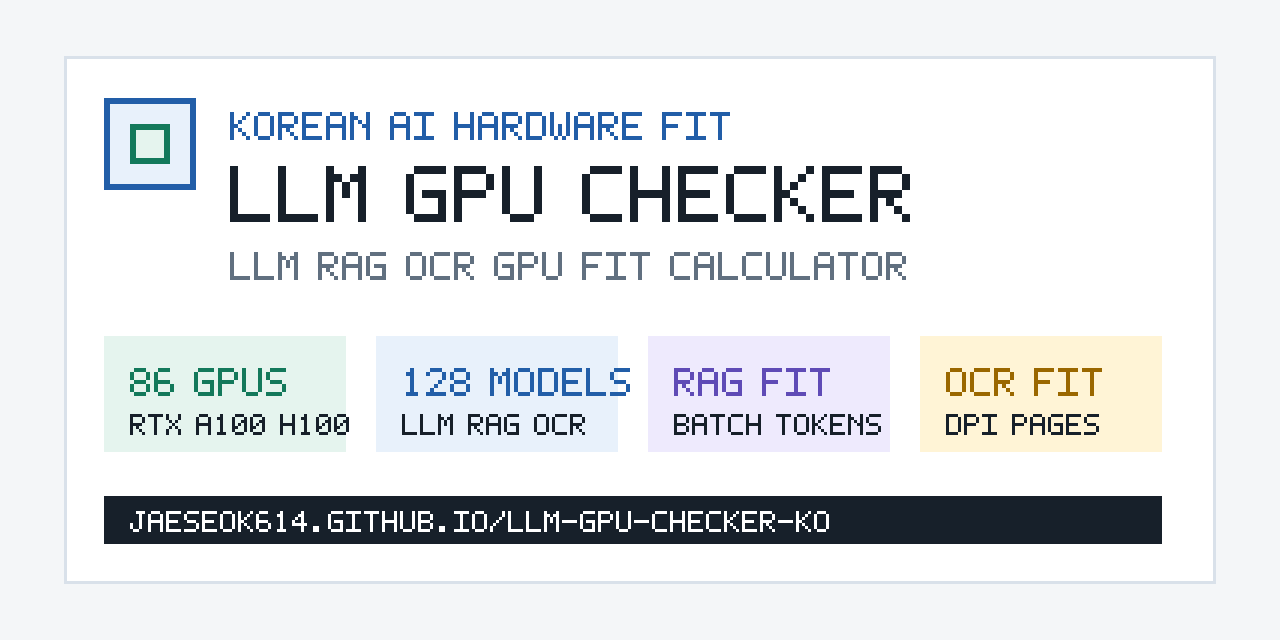
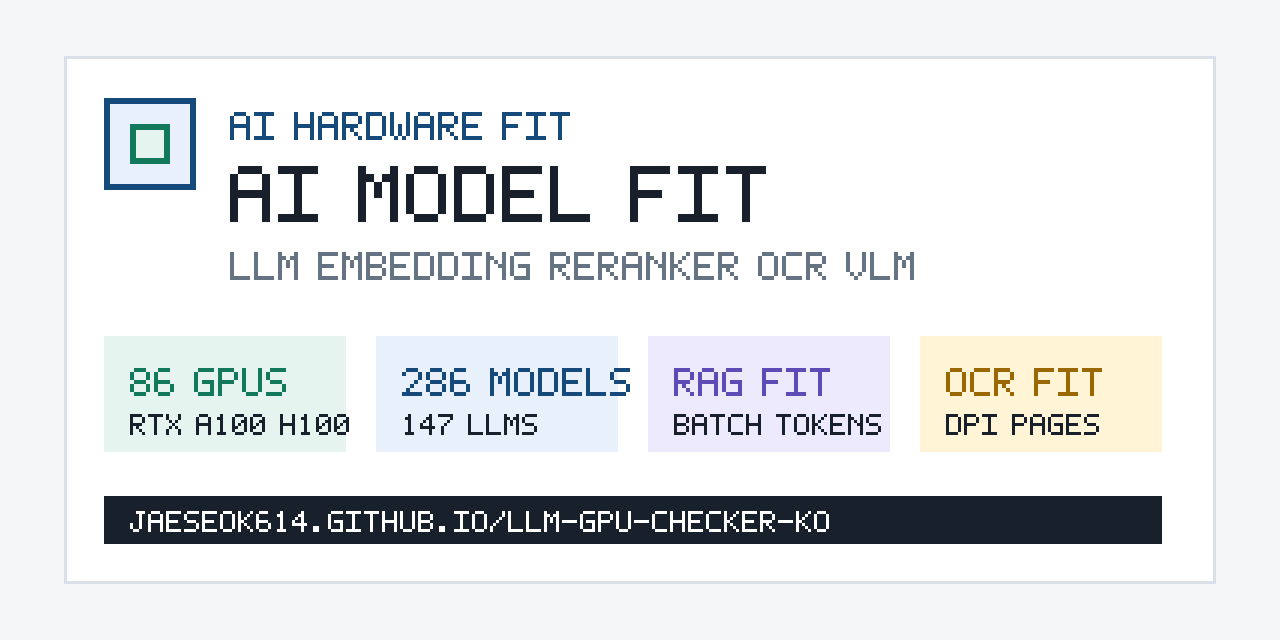
Refresh README previews and bust UI asset cache

diff --git a/index.html b/index.html
@@ -4,7 +4,7 @@
     <meta charset="utf-8" />
     <meta name="viewport" content="width=device-width, initial-scale=1" />
     <title>AI 모델 실행 가능성 계산기</title>
-    <link rel="stylesheet" href="./styles.css" />
+    <link rel="stylesheet" href="./styles.css?v=20260721-ui2" />
   </head>
   <body>
     <header class="app-header">
@@ -393,13 +393,13 @@
       <span>계산값은 로컬 추정치입니다. 실제 결과는 드라이버, CUDA/ROCm, 프레임워크, 배치 크기, 예약 VRAM, KV cache, OCR 전처리 설정에 따라 달라집니다.</span>
     </footer>
 
-    <script src="./data/gpus.js" defer></script>
-    <script src="./data/quantizations.js" defer></script>
-    <script src="./data/precision-profiles.js" defer></script>
-    <script src="./data/models.js" defer></script>
-    <script src="./data/embedding-models.js" defer></script>
-    <script src="./data/reranker-models.js" defer></script>
-    <script src="./data/ocr-models.js" defer></script>
-    <script src="./app.js" defer></script>
+    <script src="./data/gpus.js?v=20260721-ui2" defer></script>
+    <script src="./data/quantizations.js?v=20260721-ui2" defer></script>
+    <script src="./data/precision-profiles.js?v=20260721-ui2" defer></script>
+    <script src="./data/models.js?v=20260721-ui2" defer></script>
+    <script src="./data/embedding-models.js?v=20260721-ui2" defer></script>
+    <script src="./data/reranker-models.js?v=20260721-ui2" defer></script>
+    <script src="./data/ocr-models.js?v=20260721-ui2" defer></script>
+    <script src="./app.js?v=20260721-ui2" defer></script>
   </body>
 </html>

diff --git a/README.md b/README.md
@@ -1,12 +1,12 @@
-# LLM GPU Checker
+# AI 모델 실행 가능성 계산기
 
 <p align="center">
-  <img src="./assets/gpu-board.svg" alt="LLM GPU Checker" width="96" />
+  <img src="./assets/gpu-board.svg" alt="AI Hardware Fit" width="96" />
 </p>
 
 <p align="center">
   <strong>내 GPU에서 생성형 LLM, 임베딩, 리랭커, OCR/VLM 모델을 현실적으로 실행할 수 있는지 확인하세요.</strong><br />
-  Korean web-based AI model compatibility, VRAM, RAG, and OCR workload calculator.
+  AI Hardware Fit · Korean web-based AI model compatibility, VRAM, RAG, and OCR workload calculator.
 </p>
 
 <p align="center">
@@ -18,19 +18,19 @@
 </p>
 
 <p align="center">
-  <img alt="Static app" src="https://img.shields.io/badge/static-HTML%20%2B%20CSS%20%2B%20JS-225ea8" />
+  <img alt="Static app" src="https://img.shields.io/badge/static-HTML%20%2B%20CSS%20%2B%20JS-164a7b" />
   <img alt="GitHub Pages" src="https://img.shields.io/badge/demo-GitHub%20Pages-13795b" />
   <img alt="Korean UI" src="https://img.shields.io/badge/UI-Korean-5f4bb6" />
   <img alt="License" src="https://img.shields.io/badge/license-MIT-9a6700" />
 </p>
 
-![앱 미리보기](./docs/preview.svg)
+![앱 미리보기](./docs/preview.svg?ui=professional-20260721)
 
 ## 빠른 사용법
 
-1. 웹 데모를 열고 GPU 프리셋을 선택합니다.
-2. VRAM, RAM, GPU 수, 이미 사용 중인 VRAM을 필요하면 직접 수정합니다.
-3. 생성형 LLM, 임베딩, 리랭커, OCR/VLM 탭에서 실행 가능한 모델을 확인합니다.
+1. 웹 데모를 열고 상단의 실행 환경 요약을 확인합니다.
+2. GPU, VRAM, RAM, 동시 요청, 컨텍스트를 바꿔야 할 때만 `설정 변경`을 엽니다.
+3. 생성형 LLM, 임베딩, 리랭커, OCR, 문서 VLM, 범용 VLM 탭에서 실행 가능한 모델을 확인합니다.
 4. 모델을 클릭해 VRAM 구성, 속도 추정, 실행 예시를 확인합니다.
 
 ## 대표 사용 사례
@@ -44,7 +44,7 @@
 | LLM 서버가 이미 14GB를 쓰는 상태에서 임베딩/리랭커를 같이 띄울 수 있을까? | `이미 사용 중인 VRAM`, `안전 여유분` 입력 후 워크로드 탭별 확인 |
 | EmbeddingGemma, KURE, Granite R2, bge-m3 임베딩을 배치로 돌리면 얼마나 빠를까? | `임베딩` 탭, 모델명 검색 후 `평균 입력 길이`, `배치 크기` 변경 |
 | 한국어 RAG에서 bge-reranker, Qwen3 Reranker, mxbai-rerank 중 무엇이 맞을까? | `리랭커` 탭, `후보 수`, `문서 길이`, `배치 크기` 변경 |
-| OCR로 A4 300DPI 문서를 처리하려면 VRAM이 얼마나 필요할까? | `경량 OCR` 탭, `A4 300 DPI`, `PP-OCRv6 Medium` 선택 |
+| OCR로 A4 300DPI 문서를 처리하려면 VRAM이 얼마나 필요할까? | `OCR` 탭, `A4 300 DPI`, `PP-OCRv6 Medium` 선택 |
 | PDF를 Markdown으로 복원하는 문서 VLM은 어떤 GPU가 필요할까? | `문서 VLM` 탭, `PaddleOCR-VL`, `MinerU`, `olmOCR` 검색 |
 | DeepSeek-VL2나 Qwen2.5-VL 같은 범용 VLM으로 문서 질의응답을 돌릴 수 있을까? | `범용 VLM` 탭, `DeepSeek-VL2`, `Qwen2.5-VL`, `Llama Vision` 검색 |
 
@@ -57,7 +57,7 @@
 | LLM 모델 | 147 |
 | 임베딩 모델 | 60 |
 | 리랭커 모델 | 34 |
-| 경량 OCR 모델 | 4 |
+| OCR 모델 | 4 |
 | 문서 VLM 모델 | 9 |
 | 범용 VLM 모델 | 32 |
 | 양자화 옵션 | 8 |
@@ -69,16 +69,16 @@
 
 | 기능 | 설명 |
 | --- | --- |
-| GPU 프리셋/검색 | GeForce RTX, RTX Pro/Quadro, NVIDIA 데이터센터(H100/A100 포함), AMD, Intel, Apple Silicon 포함 |
-| 직접 입력 | VRAM, GPU 수, 시스템 RAM, 대역폭, 이미 사용 중인 VRAM, 안전 여유분, 컨텍스트, 동시 요청, 출력 토큰, 배치 크기 직접 조정 |
-| 워크로드 탭 | 생성형 LLM, 임베딩, 리랭커, 경량 OCR, 문서 VLM, 범용 VLM을 분리 계산 |
+| GPU 프리셋 | GeForce RTX, RTX Pro/Quadro, NVIDIA 데이터센터(H100/A100 포함), AMD, Intel, Apple Silicon 포함 |
+| 설정 변경 패널 | VRAM, GPU 수, 시스템 RAM, 대역폭, 이미 사용 중인 VRAM, 안전 여유분, 컨텍스트, 동시 요청, 출력 토큰, 배치 크기 직접 조정 |
+| 워크로드 탭 | 생성형 LLM, 임베딩, 리랭커, OCR, 문서 VLM, 범용 VLM을 분리 계산 |
 | 서빙 조건 | 컨텍스트 길이, 동시 요청 수, 평균 출력 토큰을 프리셋 또는 직접 입력으로 조정 |
 | RAG 조건 | 임베딩 입력 길이, 배치 크기, TEI 최대 배치 토큰, 리랭킹 후보 수를 프리셋 또는 직접 입력으로 조정 |
 | OCR/VLM 조건 | 문서 해상도, 이미지 너비/높이, 배치 페이지, 처리 기능 조정 |
 | 양자화 선택 | 자동 추천, Q2/Q3/Q4/Q5/Q6/Q8/FP16 |
 | 정밀도 선택 | 임베딩·리랭커·OCR용 FP32/FP16/BF16/INT8/INT4 분리 |
 | 실행 등급 | 쾌적, 잘 돌아감, 가능, 빡빡함, 오프로딩, 부적합 |
-| 빠른 목록 | 모델명, 등급, 권장 양자화, 필요 VRAM, 예상 속도, 컨텍스트를 한 줄로 비교 |
+| 빠른 목록 | 상태, 모델명, 공급사, 권장 설정, 필요 VRAM, 예상 속도, 컨텍스트를 표 형태로 비교 |
 | 상세 분석 | 모델 클릭 시 정밀도별 비교, VRAM 구성, 실행 방식별 속도, 계산 근거, 예시 명령어 표시 |
 | 모델 필터 | 한국어, RAG/검색, 코딩, 추론, 긴 문서, 비전/멀티모달, 임베딩, 리랭커, OCR, 문서 VLM, 범용 VLM |
 | 공급사 필터 | Meta, Google, Alibaba, DeepSeek, Mistral AI, Microsoft 등 공급사별 필터 |
@@ -408,7 +408,7 @@ OCR workloads are separated into three model families because their peak memory 
 
 | Family | Calculator tab | Main memory driver |
 | --- | --- | --- |
-| Lightweight OCR pipeline | `경량 OCR` | Resident detection/recognition modules and image feature maps |
+| Lightweight OCR pipeline | `OCR` | Resident detection/recognition modules and image feature maps |
 | Document-specialized VLM | `문서 VLM` | Vision encoding, image tokens, decoder KV cache, structured output length |
 | General VLM | `범용 VLM` | Image/video tokens, conversation context, decoder KV cache, generated answer length |
 
@@ -613,7 +613,7 @@ OCR/VLM 모델은 `data/ocr-models.js`에 아래 타입으로 추가합니다.
 
 | 타입 | 표시 탭 | 용도 |
 | --- | --- | --- |
-| `ocr-pipeline` | 경량 OCR | PP-OCR처럼 검출/인식/좌표 추출 중심 |
+| `ocr-pipeline` | OCR | PP-OCR처럼 검출/인식/좌표 추출 중심 |
 | `document-vlm` | 문서 VLM | PDF→Markdown, 표·수식·레이아웃 복원 |
 | `general-vlm` | 범용 VLM | OCR-like 추출, 문서 질의응답, 화면 이해 |
 